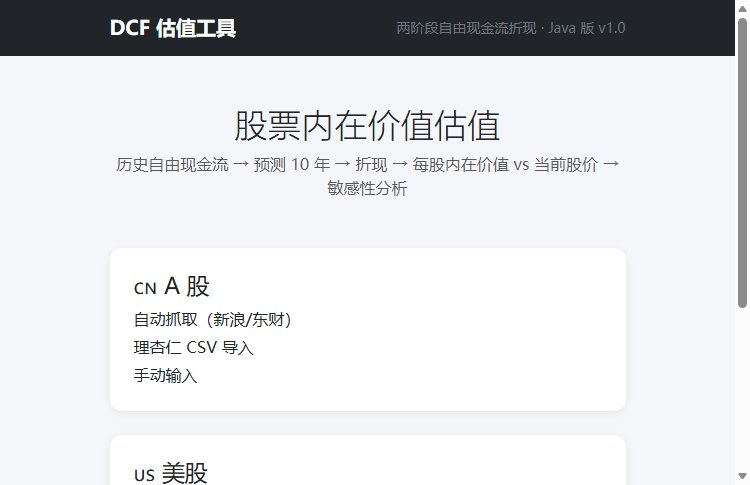
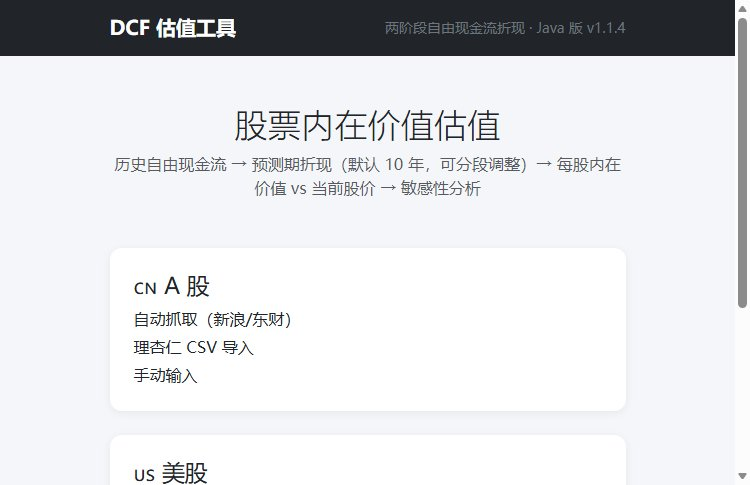
build: bump v1.1.3 -> v1.1.4（版本号动态化 + 写死文案清理后的正式发版，更新截图）

Changed region(s): [[0.3373, 0.3093, 0.828, 0.4021], [0.5213, 0.0309, 0.828, 0.0928], [0.1533, 0.3093, 0.3067, 0.3711]]

diff --git a/README.md b/README.md
@@ -46,7 +46,7 @@ cd DCF-Valuation-Tool
 
 浏览器打开 <http://localhost:8501> 即可使用（端口可在 `src/main/resources/application.yml` 修改；
 若 8501 被占用，可用 `run.bat jar 8502` / `./run.sh jar 8502` 一键换端口，
-或直接 `java -jar target/dcf-valuation-tool-1.1.3.jar --server.port=8502`）。
+或直接 `java -jar target/dcf-valuation-tool-1.1.4.jar --server.port=8502`）。
 
 **代理（可选）**：FRED 等境外数据源需要代理时才需设置环境变量，**别人使用无需任何代理配置**（不加代理时自动获取失败会提示手动输入，不影响其他功能）：
 
@@ -130,7 +130,7 @@ DCF-Valuation-Tool/
 
 ## 分支与 Roadmap
 
-- `main`：Java 版（当前版本 v1.1.3）
+- `main`：Java 版（当前版本 v1.1.4）
 - `python-prototype`：Python/Streamlit 原型（⚠ WIP：目前只提交了核心计算模块 `dcf/`，UI 层 `app.py` 尚未完成，请勿直接运行该分支；后续完成后再合并为正式版）
 
 ## Docker 部署（免装 JDK）
@@ -149,7 +149,7 @@ docker run -p 8501:8501 -v "$(pwd)/data:/app/data" dcf-valuation-tool
 
 - **免费 PaaS（最省事）**：把本仓库部署到 Railway / Render / Fly.io（仓库已内置 Dockerfile），
   构建后即可获得公网地址，适合演示与试用
-- **云服务器**：在服务器（需 JDK 21）上运行 `java -jar target/dcf-valuation-tool-1.1.3.jar`，
+- **云服务器**：在服务器（需 JDK 21）上运行 `java -jar target/dcf-valuation-tool-1.1.4.jar`，
   再用 Nginx / Caddy 反向代理并绑定域名（HTTPS）
 - **内网穿透**：ngrok / frp 适合临时演示，不建议长期公开使用
 
@@ -158,3 +158,4 @@ docker run -p 8501:8501 -v "$(pwd)/data:/app/data" dcf-valuation-tool
 ## 参与贡献
 
 欢迎提交 Issue 与 PR，详见 [CONTRIBUTING.md](CONTRIBUTING.md)。
+

diff --git a/docs/changelog.md b/docs/changelog.md
@@ -351,3 +351,16 @@
   - `src/main/resources/templates/index.html`：副标题改为"预测期折现（默认 10 年，可分段调整）"
 - **测试方式**：模板修改后重新 `mvnw package`；启动 8504 冒烟，首页/参数页文案正常显示，`rg` 确认无残留写死值
 - **可能影响的模块**：仅页面文案与 README 文档；不影响估值逻辑/导出/接口
+
+---
+
+## 变更 #21：版本 bump v1.1.3 → v1.1.4（2026-08-25）
+
+- **原因**：v1.1.3 发布后修复了两处问题（变更 #19 首页版本号动态化、#20 清理写死文案与文档脱节），本地 jar 与已发布的 v1.1.3 Release 内容不一致；bump 版本号重新发版，保证 jar 与 Release 一一对应。
+- **修改位置**：
+  - `pom.xml`：`<version>` 1.1.3 → 1.1.4
+  - `run.bat` / `run.sh`：`JAR` 变量改为 `dcf-valuation-tool-1.1.4.jar`
+  - `README.md`：jar 名与版本号同步为 1.1.4
+  - 首页版本号无需再改（变更 #19 已动态化，自动跟随 pom）
+- **测试方式**：`mvnw test` 全量通过；`mvnw package` 产出 1.1.4 jar；启动冒烟，首页显示 "Java 版 v1.1.4"
+- **可能影响的模块**：打包产物文件名、Release 资产；无业务逻辑变化
